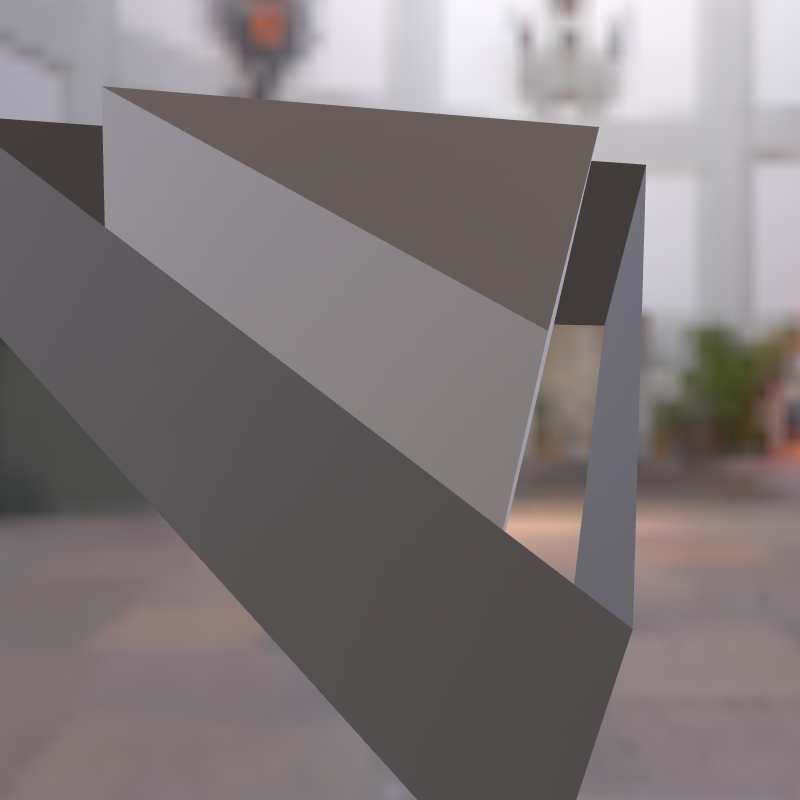
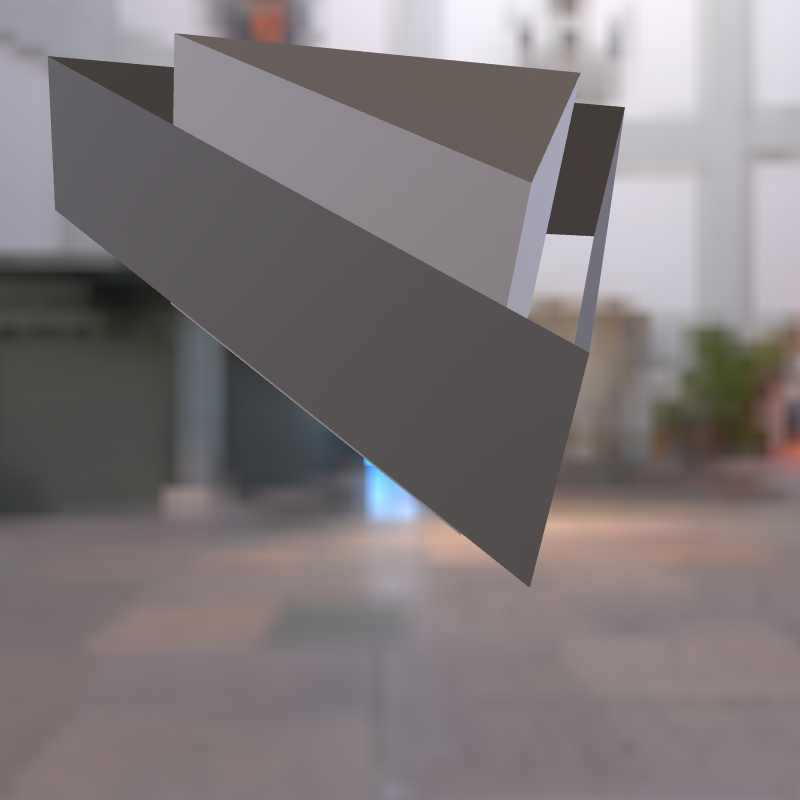
Resize model 6 to fit in the preview

diff --git a/Source/ModelGroup_SkinB.cs b/Source/ModelGroup_SkinB.cs
@@ -25,11 +25,17 @@ namespace AssetGenerator
                 };
 
                 Matrix4x4 rotation = Matrix4x4.CreateFromYawPitchRoll(15 * FloatMath.Pi / 180, 120 * FloatMath.Pi / 180, 0.0f);
-                var translationVectorJoint1 = new Vector3(0.0f, 0.0f, -0.6f);
+                var translationVectorJoint1 = new Vector3(0.0f, 0.0f, -0.4f);
+                var translationVectorJoint0 = new Vector3(0.0f, 0.0f, 0.2f);
                 var matrixJoint1 = Matrix4x4.CreateTranslation(translationVectorJoint1);
+                var matrixJoint0 = Matrix4x4.CreateTranslation(translationVectorJoint0);
 
+                matrixJoint1 = Matrix4x4.Multiply(matrixJoint0, matrixJoint1);
                 Matrix4x4 invertedJoint1;
                 Matrix4x4.Invert(matrixJoint1, out invertedJoint1);
+
+                Matrix4x4 invertedJoint0;
+                Matrix4x4.Invert(matrixJoint0, out invertedJoint0);
 
                 var nodeJoint1 = new Runtime.Node
                 {
@@ -53,7 +59,7 @@ namespace AssetGenerator
                 );
                 var joint0 = new Runtime.SkinJoint
                 (
-                    inverseBindMatrix: Matrix4x4.Identity,
+                    inverseBindMatrix: invertedJoint0,
                     node: nodeJoint0
                 );
 

diff --git a/Source/ModelGroup_Prism.cs b/Source/ModelGroup_Prism.cs
@@ -11,13 +11,13 @@ namespace AssetGenerator
             {
                 var positions = new List<Vector3>()
                 {
-                    new Vector3( 0.0f, 0.4f, 0.3f),
-                    new Vector3( 0.4f,-0.4f, 0.3f),
-                    new Vector3(-0.4f,-0.4f, 0.3f),
+                    new Vector3( 0.0f, 0.3f, 0.2f),
+                    new Vector3( 0.3f,-0.3f, 0.2f),
+                    new Vector3(-0.3f,-0.3f, 0.2f),
 
-                    new Vector3( 0.0f, 0.4f,-0.3f),
-                    new Vector3(-0.4f,-0.4f,-0.3f),
-                    new Vector3( 0.4f,-0.4f,-0.3f),
+                    new Vector3( 0.0f, 0.3f,-0.2f),
+                    new Vector3(-0.3f,-0.3f,-0.2f),
+                    new Vector3( 0.3f,-0.3f,-0.2f),
                 };
 
                 if (Scale == null)
